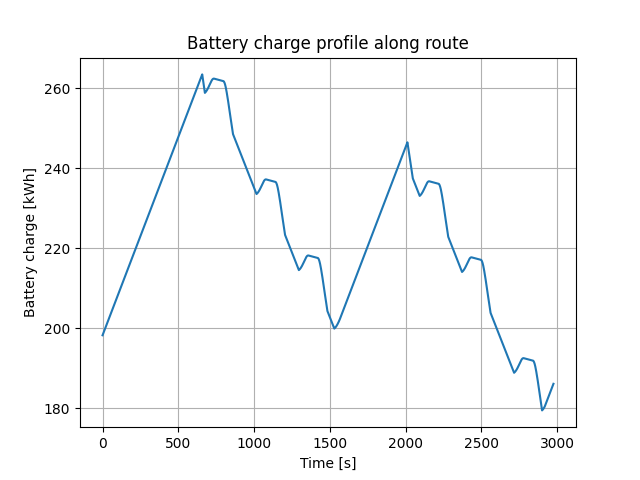
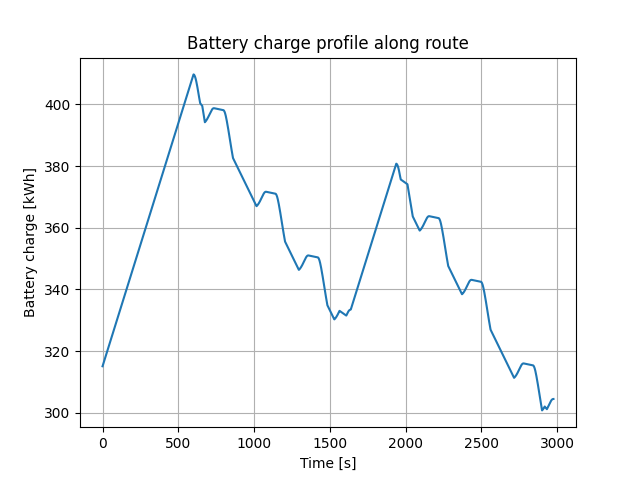
manual

diff --git a/README.md b/README.md
@@ -1,0 +1,15 @@
+## How to run
+
+- To use the UI, run dashboard.py and navigate to the link provided in the terminal (default http://127.0.0.1:5000)
+
+## Inputs
+
+- Varius inputs are available in the ui that can change the train's performance:
+  <!-- !!TODO -->
+  - Safety factor:
+  - Pantograph: Whether or not to use pantographs to charge and power the train when overheadlines are availalbe
+  - Chassis: Several characteristics of the train's chassis. These mainly impact the amount of resistance the train faces and how much power it needs to move itself
+  - Regenerative breaking efficiency: How much of the energy used can be recovered through breaking
+  <!-- !!TODO -->
+  - Motor and drive train efficiency:
+  - Number of round trips: How often the train will travel back and forth before needing to fully charge
